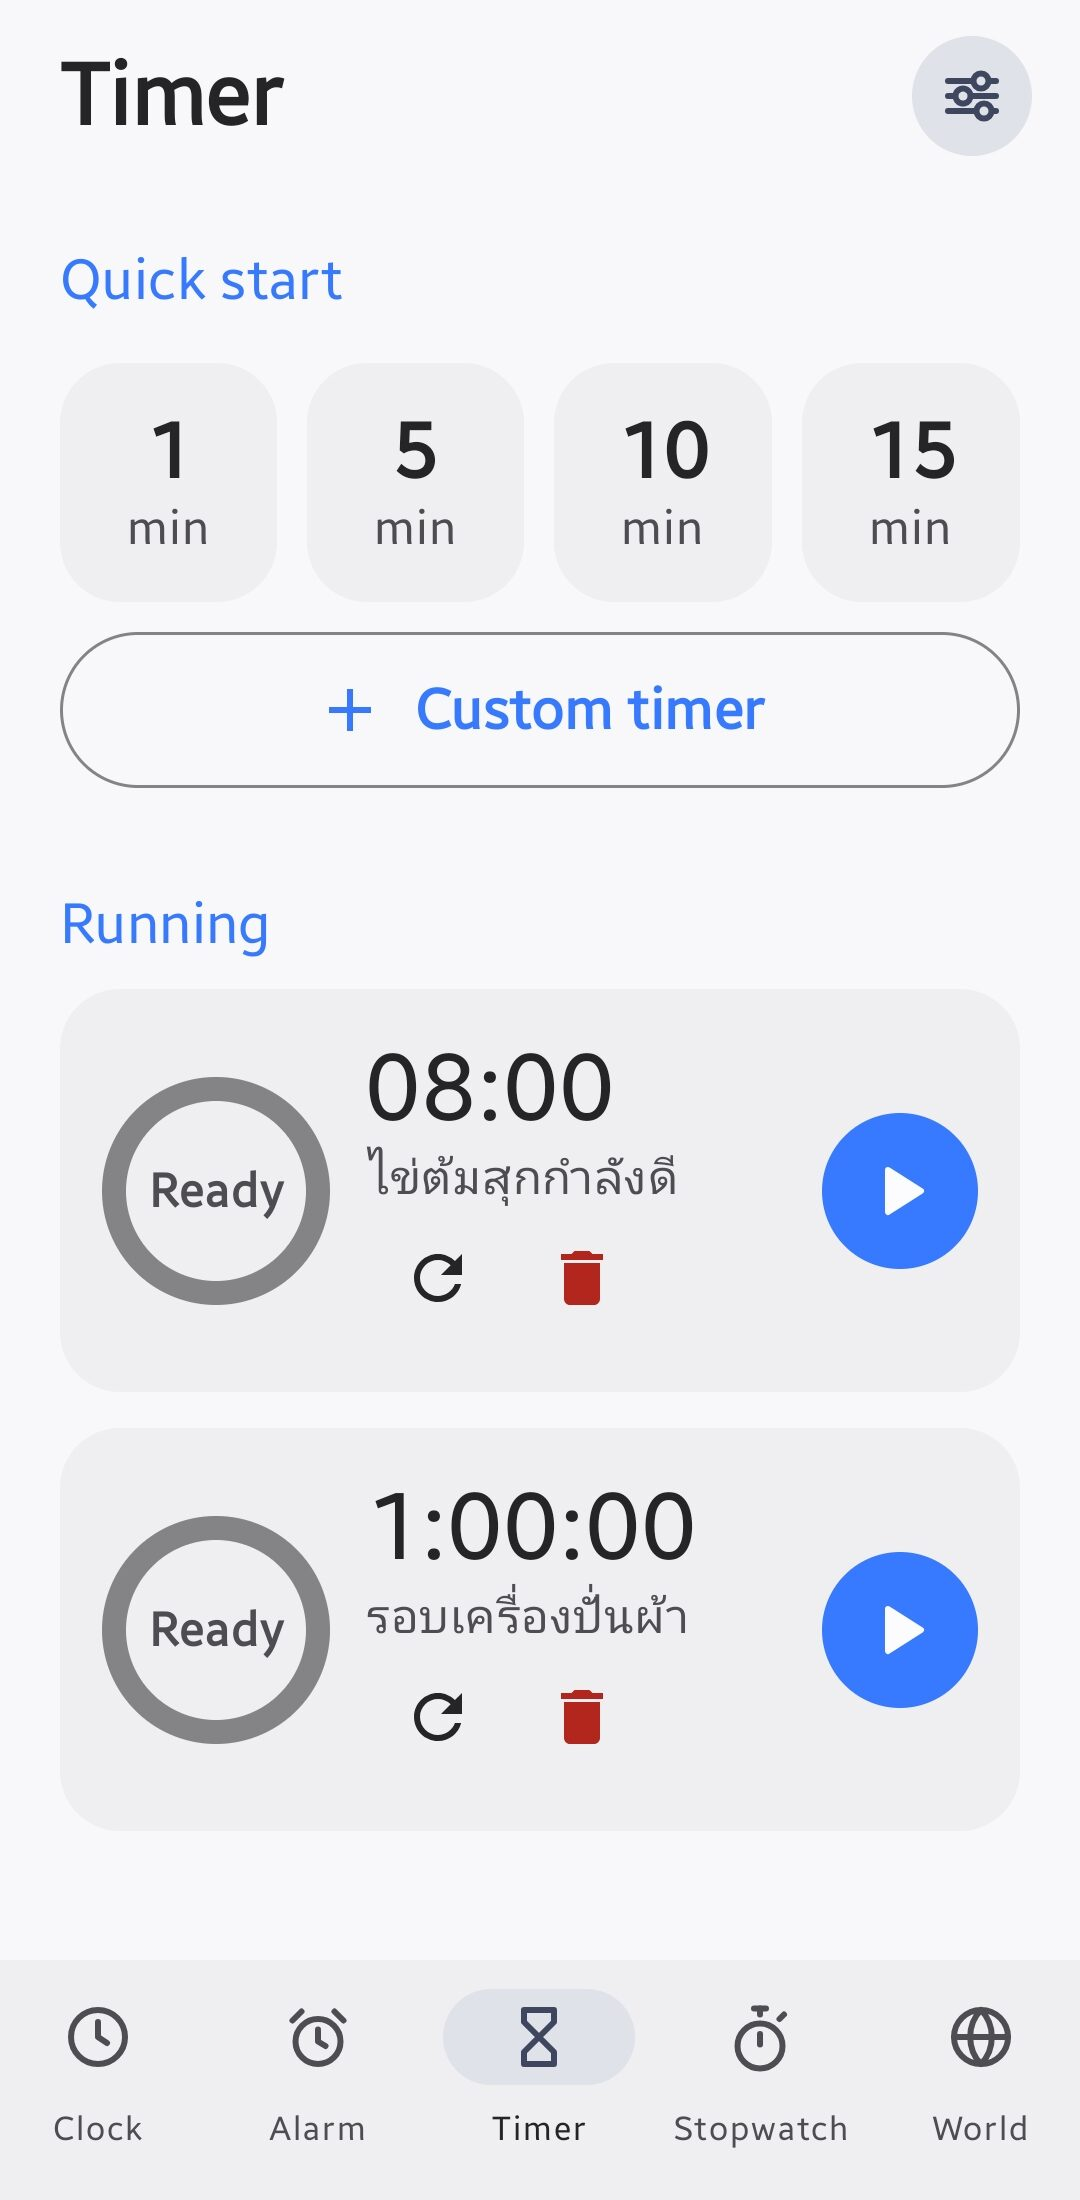
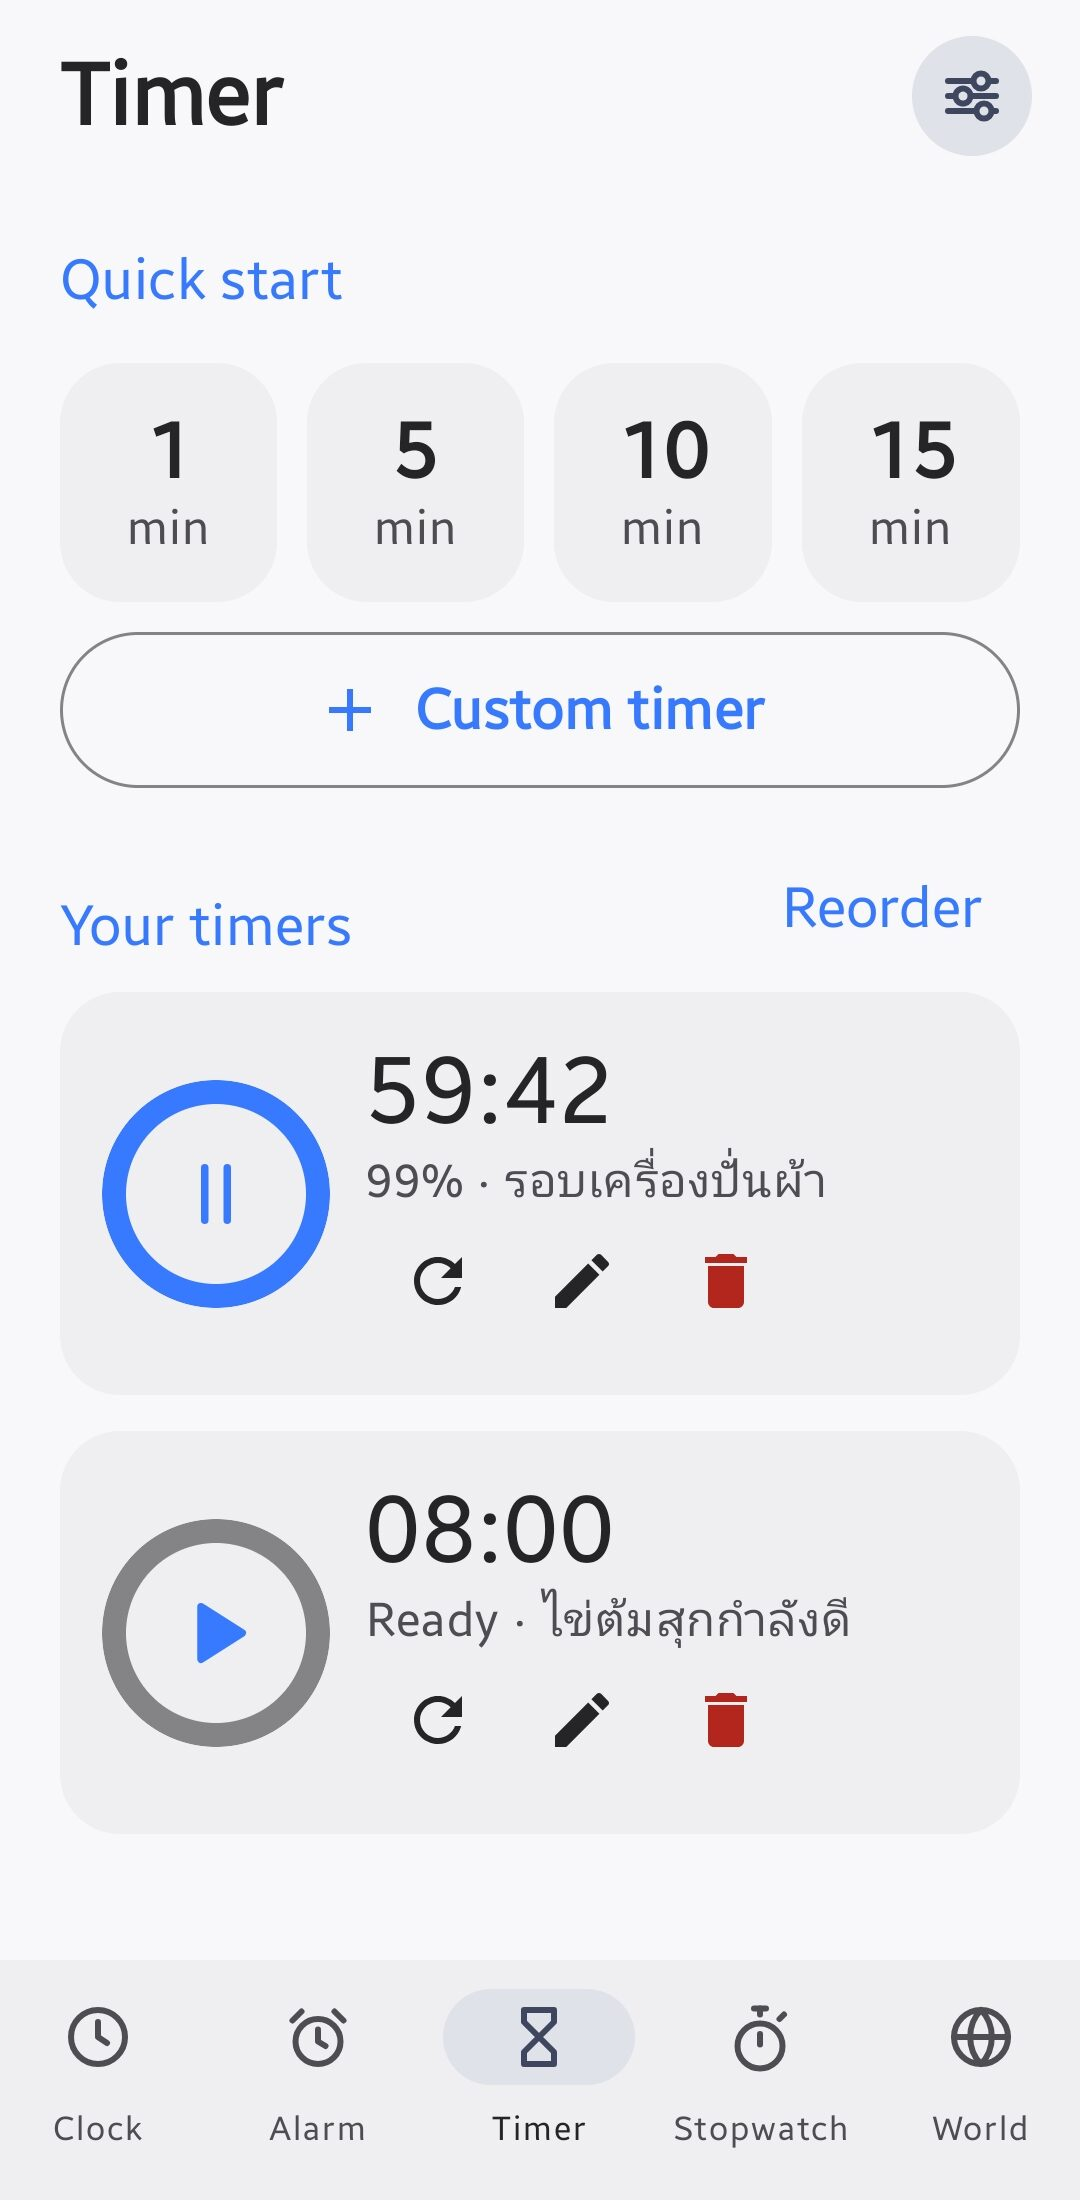
README: add widget editor screenshots, update the Timer image
Claude-Session: https://claude.ai/code/session_01Liuj2REKBmU4DKCbv425aP

diff --git a/README.md b/README.md
@@ -21,7 +21,14 @@ Package: `app.personal.clock` · minSdk 31 · target/compile SDK 35 · Kotlin + 
   <img src="docs/screenshots/world.jpg" width="18%" alt="World clock with a day and night bar per city">
 </p>
 
-More screenshots (the widget editor and the home-screen widget) will be added; the capture checklist is in [`docs/screenshots/`](docs/screenshots/README.md).
+The widget editor, with a live preview, ready-made templates and a card per line that you can reorder:
+
+<p align="center">
+  <img src="docs/screenshots/widget-editor-templates.jpg" width="22%" alt="Widget editor: templates with live preview">
+  <img src="docs/screenshots/widget-editor-lines.jpg" width="22%" alt="Widget editor: per-line size, colour and order">
+</p>
+
+A home-screen photo and the Settings list will be added; the capture checklist is in [`docs/screenshots/`](docs/screenshots/README.md).
 
 ## Install on the phone
 

diff --git a/docs/screenshots/README.md b/docs/screenshots/README.md
@@ -5,8 +5,8 @@ Drop phone screenshots here (JPEG, metadata stripped with `convert -strip -quali
 | File | Status |
 |---|---|
 | `clock.jpg`, `alarms.jpg`, `timer.jpg`, `stopwatch.jpg`, `world.jpg` | done |
-| `widget-editor.jpg` | wanted (retake after the tab-bar fix: Template and Lines tabs are the nicest) |
-| `widget-home.jpg` | wanted: home screen with the widget placed (ideally 2x2 and 4x1) |
+| `widget-editor-templates.jpg`, `widget-editor-lines.jpg` | done |
+| `widget-home.jpg` | wanted: home screen with the widget placed; use a wallpaper you own or that is free to publish |
 | `settings.jpg` | wanted: Settings list, or Permission health with everything green |
 
 Tips: Samsung power + volume-down takes a screenshot; keep them portrait, around 1080 px wide, and run
